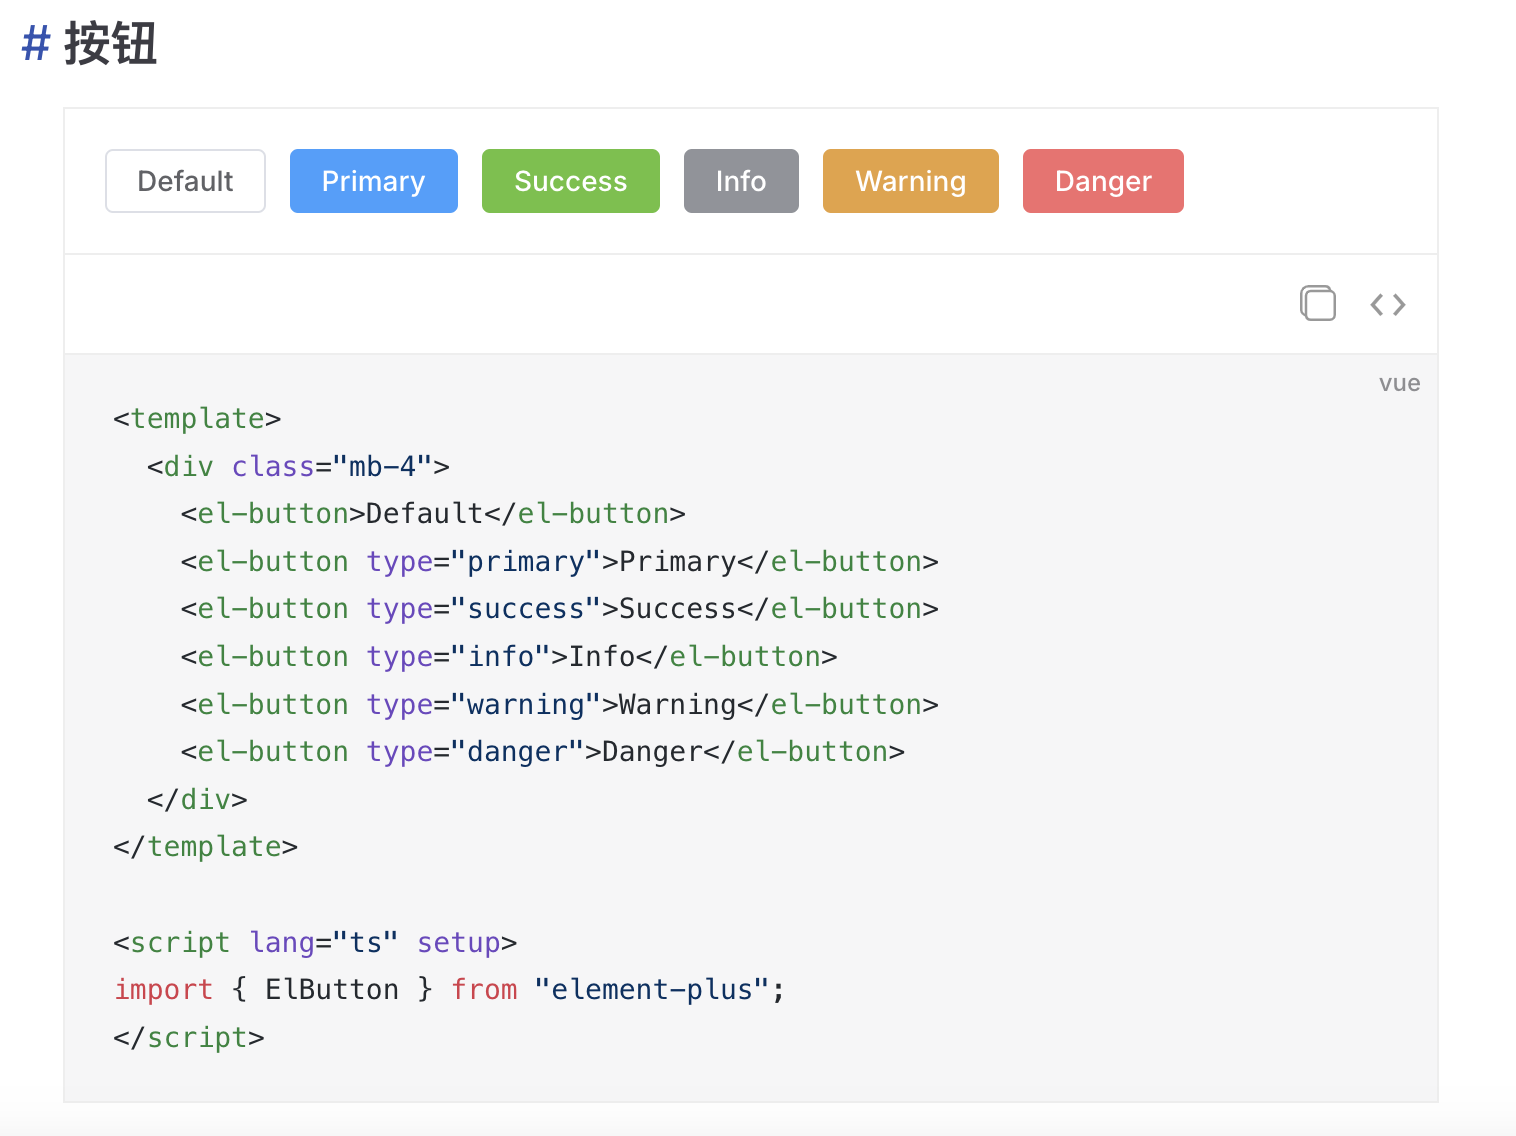
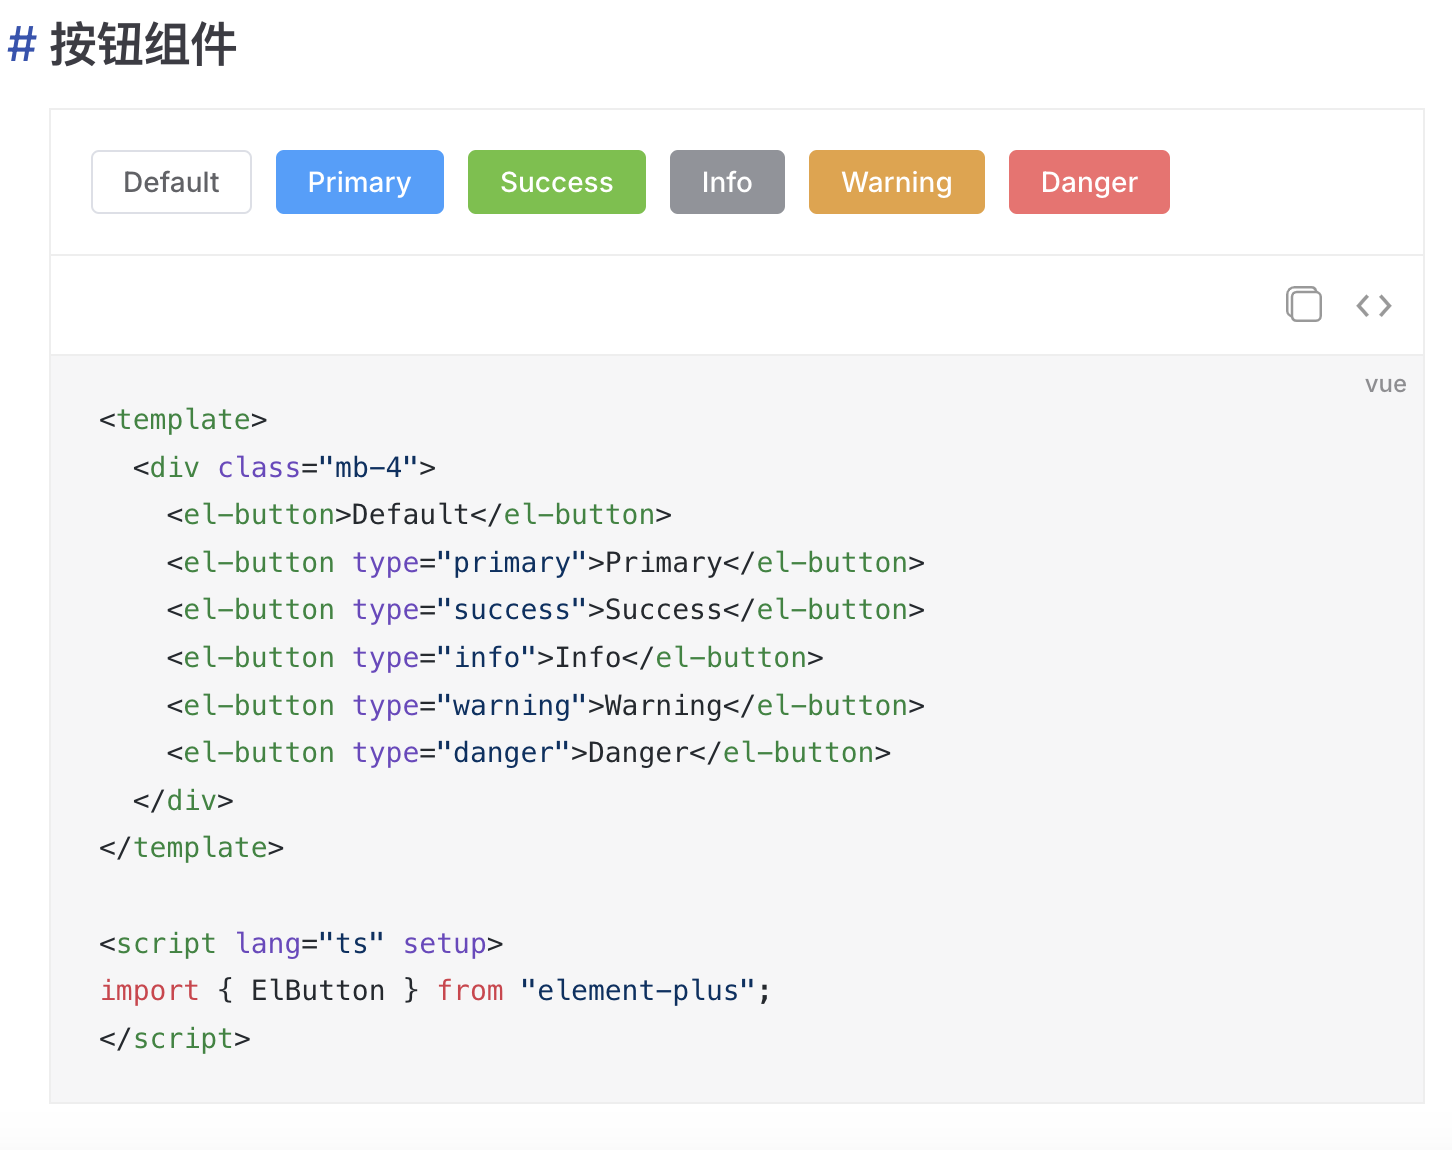
feat: readme

diff --git a/docs/markdown-examples.md b/docs/markdown-examples.md
@@ -1,4 +1,4 @@
-## 按钮
+## 按钮组件
 
 ::: demo expand
 
